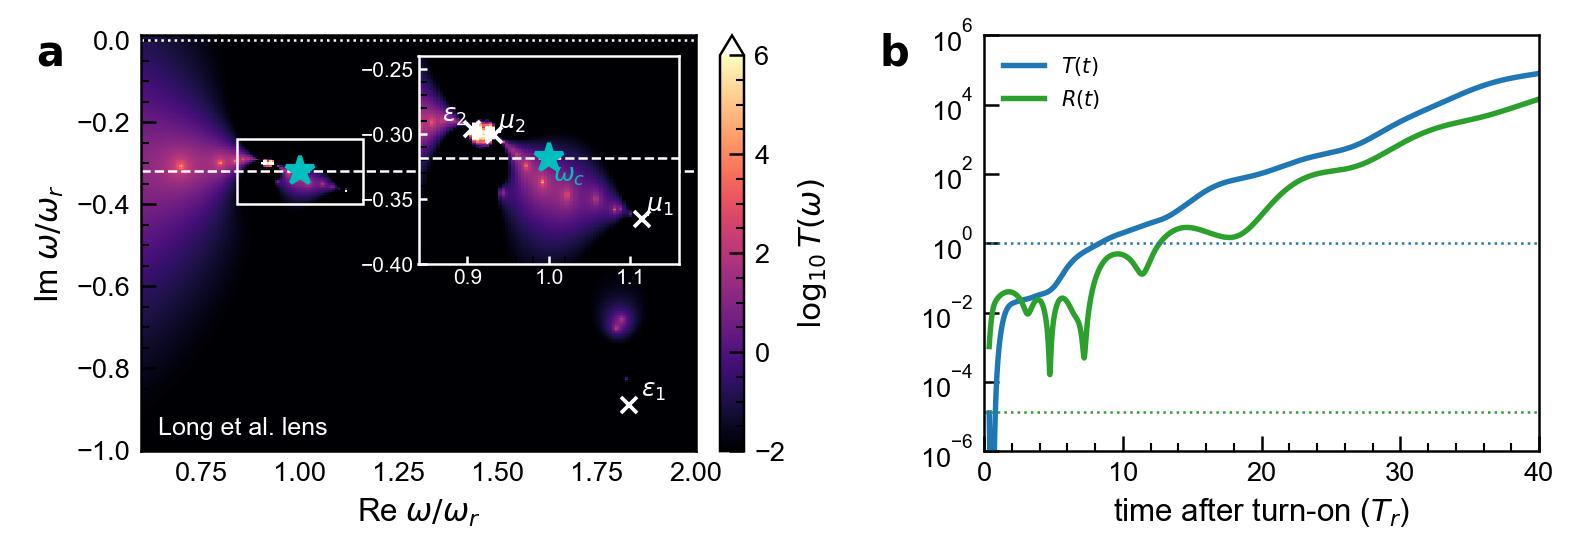
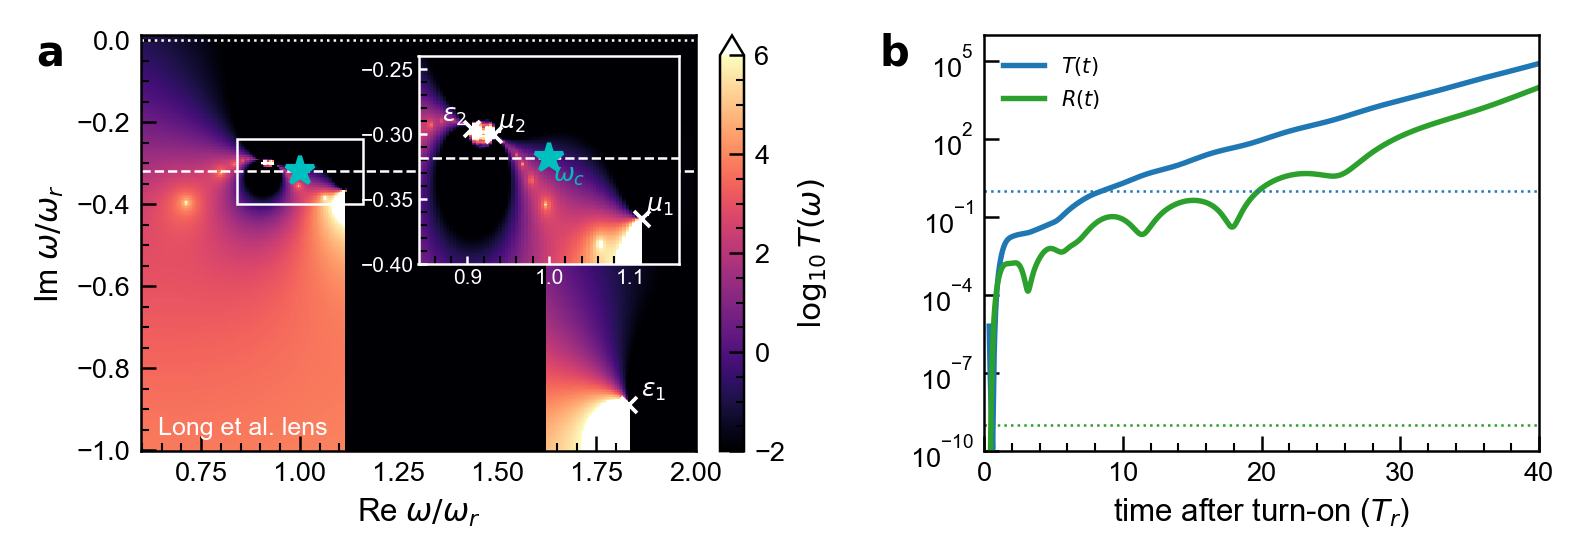
cfreq_skk: B0 eps''=0 guide, B3s4 gap/legend/true-time axis, B3s0 drive-delay explainer, B3L Medium-1 cladding (as Long et al.), FINDINGS: lens replication, two-line w0 jumps forced, gain window
Claude-Session: https://claude.ai/code/session_01N5iorLwEt1hNwdqVYG53GG

diff --git a/theory/cfreq_skk/fig_cfreq_feasibility.py b/theory/cfreq_skk/fig_cfreq_feasibility.py
@@ -305,9 +305,36 @@ def _lens_em(w):
     return cat(e1, e2), cat(m1, m2)
 
 
-def _lens_rt(w):
+def _lens_rt(w, clad='m1'):
+    """r, t of the lens at normal incidence. clad='m1' (default since 2026-11-16): semi-infinite
+    Medium 1 on both sides, as in Long et al. Fig. 2 (their source sits in Medium 1 and their
+    propagating/evanescent boundaries are Medium 1's light lines); 'vac': vacuum outside.
+    t = exit-face field / entry-face incident field. With Medium 1 outside only its impedance
+    enters, kappa = w sqrt(eps1)/sqrt(mu1) (principal roots: the passive branch on the real axis;
+    branch points at Medium 1's own poles/zeros, Im w <= -0.365 w_r, below the drive line)."""
     E, U = _lens_em(w)
-    return cf.rt(E, LENS_D, w, mu=U)
+    if clad == 'vac':
+        return cf.rt(E, LENS_D, w, mu=U)
+    w = np.atleast_1d(np.asarray(w, complex))
+    e1, m1 = E[:, 0], U[:, 0]
+    kap = w * np.sqrt(e1) / np.sqrt(m1)
+    rL, tL = cf._rt_from_M(cf._layer_product(E, LENS_D, w, 0.0, U, 's'), kap)
+    return dict(rL=rL, tL=tL)
+
+
+def _lens_map(xr, yi):
+    """log10 T(w) = 2 log10|t| of the Medium-1-clad lens on the grid xr + i yi (yi ascending).
+    kappa = w sqrt(eps1/mu1) is continued DOWN each column from the real axis (sign chosen
+    closest to the row above), so the branch cuts from Medium 1's poles/zeros point straight
+    down (-i infinity) instead of lying horizontally as principal roots would put them."""
+    W = xr[None, :] + 1j * yi[:, None]
+    E, U = _lens_em(W.ravel())
+    k = (W.ravel() * np.sqrt(E[:, 0] / U[:, 0])).reshape(W.shape)
+    for i in range(yi.size - 2, -1, -1):
+        flip = np.abs(k[i] + k[i + 1]) < np.abs(k[i] - k[i + 1])
+        k[i, flip] *= -1
+    _, tL = cf._rt_from_M(cf._layer_product(E, LENS_D, W.ravel(), 0.0, U, 's'), k.ravel())
+    return 2 * np.log10(np.abs(tL)).reshape(W.shape)
 
 
 def _lens_td():
@@ -474,6 +501,7 @@ def fig_single_layer():
     # gam = |w''| here, so eps on the drive line is exactly conj(eps on the real axis): eps' is the
     # same on both lines (one solid curve), eps'' flips sign
     axr.plot(x, ec.imag, color=C.C_EPS_IM, lw=C.LW_MAIN, ls='--')
+    axr.axhline(0, color='gray', lw=C.LW_GUIDE, ls=':')     # eps'' = 0: the mirror line of the conjugate symmetry
     ax_b.set_ylim(0.6, 1.4); axr.set_ylim(-0.6, 0.6)
     ax_b.plot([], [], color='k', lw=C.LW_MAIN, label='real axis')
     ax_b.plot([], [], color='k', lw=C.LW_MAIN, ls='--', label='drive line')
@@ -601,6 +629,13 @@ def fig_slab_wide():
     gap = 0.08 + 0.08 + C.YLABEL_W_IN + C.YLABEL_W_IN + C.CENTER_GAP_IN
     fig, axs, _ = C.panel_grid(2, 3, width_in=7.5, margin_l=0.56, col_gap=gap,
                                margin_t=C.LAYOUT_PAD_IN + 0.16)
+    # only column 1 carries a colourbar: pull column 3 back to the normal gap, shrink the figure
+    W0, H0 = fig.get_size_inches(); dx = gap - (C.YLABEL_W_IN + C.CENTER_GAP_IN)
+    boxes = [(ax, ax.get_position()) for ax in axs.ravel()]
+    fig.set_size_inches(W0 - dx, H0)
+    for ax, p in boxes:
+        x0 = p.x0 * W0 - (dx if ax in axs[:, 2] else 0)
+        ax.set_position([x0 / (W0 - dx), p.y0, p.width * W0 / (W0 - dx), p.height])
     wr = cf.rfft_omega(NT, DT)
     xr = a * np.linspace(0.9, 1.1, 241); yi = a * np.linspace(-0.12, 0.006, 190)
     W = (xr[None, :] + 1j * yi[:, None]).ravel()
@@ -624,20 +659,21 @@ def fig_slab_wide():
 
         Tc = abs(cf.rt(e([wc]), d, [wc])['tauL'][0]) ** 2
         _, out = cf.complex_response(cf.rt(e(wr), d, wr)['tL'], t, ETA, T_ON, T0)
-        x = t[sh:] - T0 - Ls; Po, Pv = np.abs(out[sh:]) ** 2, np.abs(vac[sh:]) ** 2
-        ok = (x > 0) & (Pv > 1e-28)
+        x = t - T0; Po, Pv = np.abs(out) ** 2, np.abs(vac) ** 2     # x = t since turn-on
+        ok = (x > Ls) & (Pv > 1e-28)                                # nothing reaches the exit before L/c
         axp.semilogy(x[ok], Pv[ok], color='gray', ls='--', lw=C.LW_THIN, label=r'$|E_{\rm inc}(t-L/c)|^2$')
         axp.semilogy(x[ok], Po[ok], color=C.C_T, lw=C.LW_THIN, label=r'$|E_{\rm out}(t)|^2$')
-        axp.semilogy(x[ok], Tc * Pv[ok], color=C.C_T, ls=':', lw=C.LW_GUIDE)
-        tq, pq = _comsol_raw(tgt.imag, Ls)
+        axp.semilogy(x[ok], Tc * Pv[ok], color=C.C_T, ls=':', lw=C.LW_GUIDE,
+                     label=r'$T(\omega_c)\,|E_{\rm inc}(t-L/c)|^2$')
+        tq, pq = _comsol_raw(tgt.imag, Ls); tq = tq + Ls
         sel = (tq >= 1) & (np.abs(np.round(tq / 5) * 5 - tq) < 1e-6)
         axp.plot(tq[sel], pq[sel], marker='o', mfc='none', mec='k', ms=3, mew=0.6, ls='none', label='COMSOL')
         axp.set_ylim(1e-20, 1e1); axp.set_ylabel('power at the exit face')
 
         Tt = Po[ok] / Pv[ok]; xt = x[ok]
-        mk = xt > 1
+        mk = xt > Ls + 0.5                       # skip the 0/0 at the arrival of the first light
         axt.semilogy(xt[mk], Tt[mk], color=C.C_T, lw=C.LW_THIN, label=r'TMM $\times$ FFT')
-        tq2, qc, _ = _comsol_ratio(tgt.imag, Ls)
+        tq2, qc, _ = _comsol_ratio(tgt.imag, Ls); tq2 = tq2 + Ls
         sel = (tq2 >= 1) & (np.abs(np.round(tq2 / 5) * 5 - tq2) < 1e-6)
         axt.plot(tq2[sel], qc[sel] ** 2, marker='o', mfc='none', mec='k', ms=3, mew=0.6, ls='none',
                  label='COMSOL')
@@ -653,11 +689,50 @@ def fig_slab_wide():
         ax.set_xlabel(r'time after turn-on ($T_r$)')
     axs[1][0].set_xlabel(r"Re $\omega/\omega_r$"); axs[0][0].set_xlabel(r"Re $\omega/\omega_r$")
     axs[0][1].legend(loc='lower left', fontsize=5); axs[0][2].legend(loc='upper left', fontsize=5)
-    for ax, ttl in zip(axs[0], (r'$T(\omega)$ over complex $\omega$', 'raw powers (no division)',
+    for ax, ttl in zip(axs[0], (r'$T(\omega)$ over complex $\omega$', 'raw powers',
                                 r'$T(t)=|E_{\rm out}(t)|^2/|E_{\rm inc}(t-L/c)|^2$')):
         ax.set_title(ttl, fontsize=7)
-    C.label_panels(fig, [(ax, l) for ax, l in zip(axs.ravel(), 'abcdef')], dx_in=0.54)
+    C.label_panels(fig, [(ax, l) for ax, l in zip(axs[:, :2].ravel(), 'abde')], dx_in=0.54)
+    C.label_panels(fig, [(axs[0][2], 'c'), (axs[1][2], 'f')], dx_in=0.42)
     C.save(fig, os.path.join(OUT, 'B3s4_slab_2x3.png'))
+
+
+def fig_drive_delay():
+    """B3s0 (explainer for B3s4): the drive at the entry face E_inc(t) and the same drive delayed by
+    the vacuum transit time, E_inc(t - L/c) = what vacuum would deliver to the exit face at t
+    (L = 1 lam_r, so L/c = 1 T_r). a: the fields, linear; b: their powers, log. Because the drive
+    decays, the delayed copy is ALWAYS larger, by e^{|w''|L/c} = 1.37 (power 1.87)."""
+    Ls = 1.0
+    fig, axs, _ = C.panel_grid(1, 2, margin_l=0.47)
+    ax_a, ax_b = axs[0]
+    t = np.arange(NT) * DT; wr = cf.rfft_omega(NT, DT)
+    dcx, vac = cf.complex_response(np.exp(1j * wr * Ls), t, ETA, T_ON, T0)
+    x = t - T0
+    m = (x > 12) & (x < 20)
+    ax_a.plot(x[m], dcx[m].real, color='0.75', lw=C.LW_THIN)
+    ax_a.plot(x[m], np.abs(dcx[m]), color='0.45', lw=C.LW_MAIN, label=r'$E_{\rm inc}(t)$')
+    ax_a.plot(x[m], np.abs(vac[m]), color='0.45', lw=C.LW_MAIN, ls='--', label=r'$E_{\rm inc}(t-L/c)$')
+    h = np.interp(15.0, x, np.abs(dcx))                       # same height, one transit time apart
+    ax_a.annotate('', xy=(16.0, h), xytext=(15.0, h),
+                  arrowprops=dict(arrowstyle='<->', lw=0.7, color='k', shrinkA=0, shrinkB=0))
+    ax_a.text(15.5, h - 0.003, r'$L/c$', ha='center', va='top', fontsize=6)
+    ax_a.set_xlim(12, 20); ax_a.set_ylim(-0.04, 0.04)
+    ax_a.set_xlabel(r'time after turn-on ($T_r$)'); ax_a.set_ylabel('field')
+    ax_a.legend(loc='lower left', fontsize=5)
+    ok = x > Ls + 0.5
+    ratio = np.abs(vac[ok]) ** 2 / np.abs(dcx[ok]) ** 2
+    ax_b.plot(x[ok], ratio, color='0.45', lw=C.LW_MAIN)
+    ax_b.axhline(np.exp(2 * cf.TWO_PI * ETA * Ls), color='k', lw=C.LW_GUIDE, ls=':')
+    ax_b.text(59, np.exp(2 * cf.TWO_PI * ETA * Ls) + 0.05, r'$e^{2|\omega^{\prime\prime}|L/c}=1.87$',
+              ha='right', va='bottom', fontsize=6)
+    i = np.argmin(abs(x[ok] - 40))
+    print(f'B3s0: |E_inc(t-L/c)|^2/|E_inc(t)|^2 at t=40: {ratio[i]:.4f} '
+          f'(e^(2|w"|L/c) = {np.exp(2*cf.TWO_PI*ETA*Ls):.4f})')
+    ax_b.set_xlim(0, 60); ax_b.set_ylim(0, 2.5)
+    ax_b.set_xlabel(r'time after turn-on ($T_r$)')
+    ax_b.set_ylabel(r'$|E_{\rm inc}(t-L/c)|^2\,/\,|E_{\rm inc}(t)|^2$')
+    C.label_panels(fig, [(ax_a, 'a'), (ax_b, 'b')])
+    C.save(fig, os.path.join(OUT, 'B3s0_drive_delay.png'))
 
 
 def fig_lens():
@@ -673,7 +748,7 @@ def fig_lens():
     # is in view too
     xr = a * np.linspace(0.6, 2.0, 351); yi = a * np.linspace(-1.0, 0.01, 253)
     W = (xr[None, :] + 1j * yi[:, None]).ravel()
-    Z = 2 * np.log10(np.abs(_lens_rt(W)['tL'])).reshape(yi.size, xr.size)   # T = |t|^2 (see b)
+    Z = _lens_map(xr, yi)                    # T = |t|^2 (see b)
     im = _tmap(ax_a, xr / a, yi / a, Z)
     _drive_marks(ax_a, LENS_ETA, line='w', star='c')
     # inset: zoom on the drive line around w_r, where medium 2's poles sit just above it
@@ -682,7 +757,7 @@ def fig_lens():
     mx = (xr / a >= zx[0] - 0.01) & (xr / a <= zx[1] + 0.01)
     yz = a * np.linspace(zy[0], zy[1], 161)
     Wz = (xr[mx][None, :] + 1j * yz[:, None]).ravel()
-    Zz = 2 * np.log10(np.abs(_lens_rt(Wz)['tL'])).reshape(yz.size, mx.sum())
+    Zz = _lens_map(xr[mx], yz)
     _tmap(axi, xr[mx] / a, yz / a, Zz)
     _drive_marks(axi, LENS_ETA, line='w', star='c')
     axi.set_xlim(*zx); axi.set_ylim(*zy)
@@ -718,7 +793,7 @@ def fig_lens():
     ax_b.axhline(abs(oc['rL'][0]) ** 2, color=C.C_R, ls=':', lw=C.LW_GUIDE)
     print(f'B3L at w_c: T={abs(oc["tL"][0])**2:.4f} R={abs(oc["rL"][0])**2:.2e}; at t=40: '
           f'T={np.interp(40, t, np.abs(tl)**2):.3g} R={np.interp(40, t, np.abs(rl)**2):.3g}')
-    ax_b.set_xlim(0, 40); ax_b.set_ylim(1e-6, 1e6)
+    ax_b.set_xlim(0, 40); ax_b.set_ylim(1e-10, 1e6)
     ax_b.set_xlabel(r'time after turn-on ($T_r$)')
     ax_b.legend(loc='upper left', fontsize=5)
     C.label_panels(fig, [(ax_a, 'a'), (ax_b, 'b')])
@@ -766,7 +841,7 @@ def fig_grow():
 FIGS = {'freq': fig_freq, 'freq_simple': fig_freq_simple, 'eta_zero': fig_eta_zero, 'trunc': fig_trunc,
         'time': fig_time, 'grow': fig_grow, 'single_layer': fig_single_layer, 'slab_td': fig_slab_td,
         'slab_td_t': lambda: fig_slab_td('t'), 'slab_td_raw': lambda: fig_slab_td('raw'),
-        'lens': fig_lens, 'slab_wide': fig_slab_wide}
+        'lens': fig_lens, 'slab_wide': fig_slab_wide, 'drive_delay': fig_drive_delay}
 
 if __name__ == '__main__':
     names = sys.argv[1:] or list(FIGS)

diff --git a/theory/cfreq_skk/FINDINGS.md b/theory/cfreq_skk/FINDINGS.md
@@ -554,3 +554,29 @@ A separate claude.ai session (literature only: no code, plots or numbers) listed
 - arXiv 2506.03485, 2604.26628, 2605.12842, 2609.29293 (unverified);
 - Baranov–Krasnok–Alù, Optica 2017;
 - Kim et al., PRL 129, 203601 (2022).
+
+## Lens replication + two-line ω₀ jumps (2026-11-16)
+- **B3L now uses semi-infinite Medium 1 on both sides** (was vacuum). Evidence that Long et al. use
+  Medium 1 as the surrounding/reference medium: their Fig. 2e propagating/evanescent boundaries sit at
+  ±0.46 k₀ = Re n₁(ω_r)·ω_r/c, Medium 1's light line (vacuum's would be ±0.185 k₀). With exactly
+  complementary media the stack's transfer matrix is the identity, so t = 1, r = 0 for ANY cladding
+  and any k∥ (checked, 50-digit mpmath). Numbers with Medium 1 outside: T(ω_c) = 0.988, R = 1.0e-9;
+  time domain at t = 40: T = 8.3e4, R = 1.0e4 (diverges as before; vacuum gave 8.0e4 / 1.5e4).
+  Medium 1's poles/zeros are branch points of t; the map continues κ = ω√(ε₁/μ₁) down each column,
+  so the cuts hang vertically below them (all below the drive line).
+- **Table 1 rounding.** Their Lorentz parameters reproduce their ω_r values, but at ω_c
+  ε₂/(−ε₁) = 1.0001 and μ₂/(−μ₁) = 0.994. Fine at k∥ = 0 (|t| = 0.994) but evanescent k∥ amplify it:
+  |t| = 0.40 at 1.5k₀, 6e-4 at 2k₀. Their Fig. 2c (|t| = 1 to 5k₀) must use the exact ω_c values.
+- **Their Fig. 2e is not reproduced.** At ω_r, k∥ = 0 we get t = −0.021 − 0.018i (|t| = 0.028, for
+  either cladding), consistent with bulk absorption e^{−Im(n₁)ω_r λ₀/c}·e^{−Im(n₂)ω_r λ₀/c} = 0.18 × 0.16;
+  their plot peaks at |t| ≈ 0.58. Unexplained (maybe an unstated normalisation). Keep 2e off the slide.
+- **Two-line ω₀ jumps are unavoidable** for this target. With γ₁, γ₂ fixed and a common ω₀, the phase
+  of G(ω₀) = 1/D₁ − ρ/D₂ at ω_c is monotonic in ω₀ and spans only 1.41 turns over ω₀ ∈ (0, ∞)
+  (1.28 turns on the 0.6–1.4 ω_r design window). The target's arg χ(y) winds 1.73 turns across the
+  active layers (4th-order pole: 4 × the half-turn of y + iδ). A continuous ω₀(y) would need span ≥ 1.73
+  turns, so at least one jump is forced (least-f₁ choice gives two). Single Lorentz has no jumps because
+  γ is a second knob: D = (ω₀² − a² + b² − γb) + i·a(2b − γ) can circle the origin continuously, but only
+  by passing γ < 2b, i.e. the gain that makes it diverge.
+- **Two-line gain window (on resonance, a ≫ b).** Im χ(ω_c) ∝ (γ₁ − 2b)⁻¹ − ρ(γ₂ − 2b)⁻¹ with ρ = f₂/f₁;
+  gain needs ρ > (γ₂ − 2b)/(γ₁ − 2b), passivity needs ρ ≤ γ₂/γ₁; compatible iff γ₁ > γ₂. For γ₁ = 10b,
+  γ₂ = 4b: 0.25 < ρ ≤ 0.40; design uses 0.36 (checked: ρ = 0.25 lossy, 0.30 gain).
